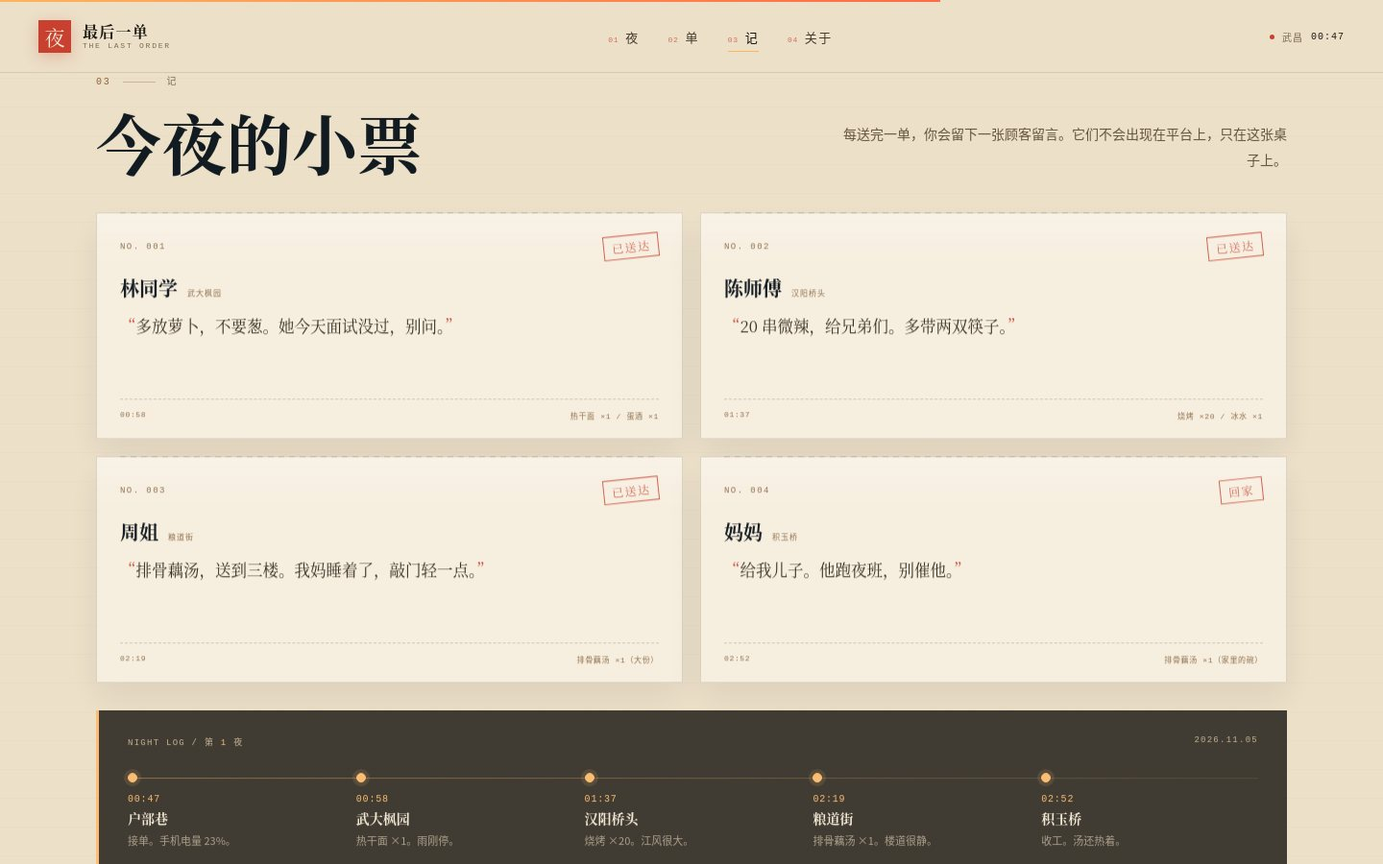
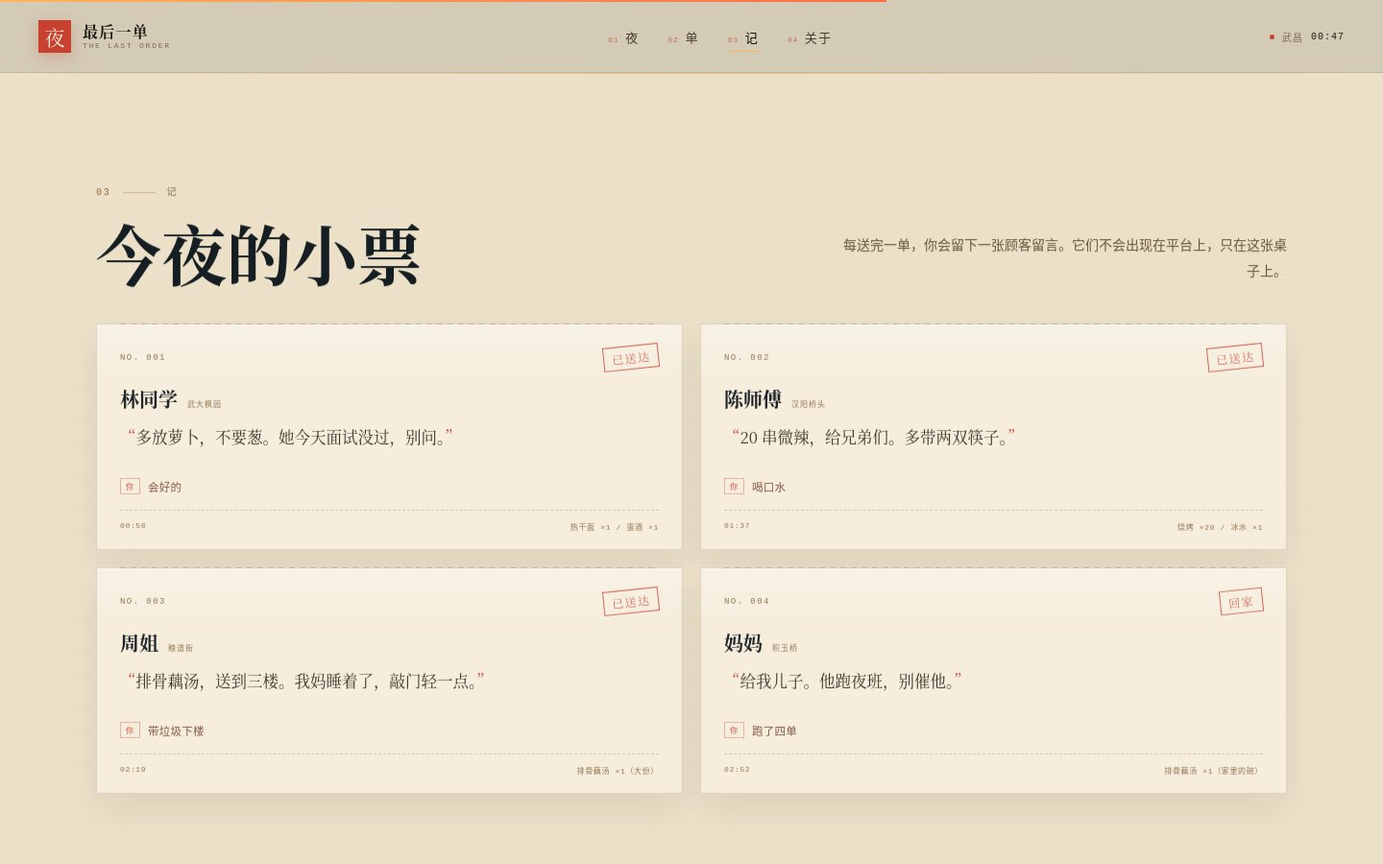
feat: 选择真正留在四张小票上，修纸面锚点顶栏与暗缝

diff --git a/assets/js/app.js b/assets/js/app.js
@@ -73,6 +73,7 @@
     miniStamp: $("#miniTicketStamp"),
     miniItems: $("#miniTicketItems"),
     miniNote: $("#miniTicketNote"),
+    miniChoice: $("#miniTicketChoice"),
     miniPlace: $("#miniTicketPlace"),
     miniTime: $("#miniTicketTime"),
     sceneAfter: $("#sceneAfter"),
@@ -464,6 +465,7 @@
     el.scenePlayer.textContent = scene.playerLine;
     el.sceneOutcome.textContent = "";
     el.sceneAfter.textContent = "";
+    el.miniChoice.textContent = "";
     el.sceneResult.hidden = true;
     el.sceneChoices.hidden = false;
     el.sceneChoices.innerHTML = "";
@@ -506,6 +508,7 @@
     Object.keys(order.scene.ticket).forEach(function (k) { ticket[k] = order.scene.ticket[k]; });
     ticket.customer = order.customer;
     ticket.orderId = order.id;
+    ticket.choice = choice.short || choice.label;
     state.tickets.push(ticket);
 
     el.sceneOutcome.textContent = choice.outcome;
@@ -513,6 +516,7 @@
     el.miniStamp.textContent = ticket.stamp;
     el.miniItems.textContent = ticket.items;
     el.miniNote.textContent = ticket.note;
+    el.miniChoice.textContent = "你 · " + ticket.choice;
     el.miniPlace.textContent = ticket.place;
     el.miniTime.textContent = ticket.time;
     el.sceneAfter.textContent = order.scene.after;
@@ -610,8 +614,9 @@
 
     el.summaryTickets.innerHTML = state.tickets.map(function (t) {
       return '<li><span class="r-no">' + escape(t.no) + '</span>' +
-        '<div class="r-body"><b>' + escape(t.place) + ' · ' + escape(t.time) + '</b>' +
-        escape(t.note) + '<span>' + escape(t.items) + '</span></div></li>';
+        '<div class="r-body"><b>' + escape(t.place) + ' · ' + escape(t.time) +
+        (t.choice ? '<em class="r-choice">你 · ' + escape(t.choice) + '</em>' : '') +
+        '</b>' + escape(t.note) + '<span>' + escape(t.items) + '</span></div></li>';
     }).join("");
   }
 
@@ -708,6 +713,7 @@
         '<div class="ticket-top"><span class="ticket-no">' + escape(ticket.no) + '</span><span class="ticket-stamp">' + escape(ticket.stamp) + '</span></div>' +
         '<div class="ticket-who"><h3>' + escape(ticket.customer) + '</h3><span>' + escape(ticket.place) + '</span></div>' +
         '<p class="ticket-note">' + escape(ticket.note) + '</p>' +
+        (ticket.choice ? '<p class="ticket-choice"><i>你</i>' + escape(ticket.choice) + '</p>' : '') +
         '<div class="ticket-foot"><span>' + escape(ticket.time) + '</span><span>' + escape(ticket.items) + '</span></div>' +
         '</article>';
     }).join("");
@@ -832,6 +838,14 @@
       ctx.fillStyle = "#6a4e30";
       ctx.font = '600 12px "Noto Sans CJK SC", "PingFang SC", sans-serif';
       ctx.fillText(t.place + " · " + t.time, 50, cursor);
+      if (t.choice) {
+        ctx.save();
+        ctx.textAlign = "right";
+        ctx.fillStyle = "#a33a2b";
+        ctx.font = '9px "SFMono-Regular", Consolas, monospace';
+        ctx.fillText("你 · " + t.choice, W - 50, cursor);
+        ctx.restore();
+      }
       ctx.fillStyle = "#2a2118";
       ctx.font = '15px "Noto Serif CJK SC", "Songti SC", serif';
       var lines = wrapText(ctx, "“" + t.note + "”", W - 100);
@@ -929,7 +943,8 @@
     var notes = document.getElementById("notes");
     if (notes) {
       var r = notes.getBoundingClientRect();
-      var paper = r.top <= 70 && r.bottom >= 70;
+      var mark = (el.head.offsetHeight || 80) + 24;
+      var paper = r.top <= mark && r.bottom >= mark;
       el.head.classList.toggle("is-paper", paper);
     }
 

diff --git a/assets/css/main.css b/assets/css/main.css
@@ -39,7 +39,7 @@ html {
   -webkit-font-smoothing: antialiased;
   text-rendering: optimizeLegibility;
   scroll-behavior: smooth;
-  scroll-padding-top: 96px;
+  scroll-padding-top: var(--head-h);
 }
 body {
   margin: 0;
@@ -953,6 +953,25 @@ html.is-locked, html.is-locked body { overflow: hidden; }
 }
 .ticket-note::before { content: "“"; color: var(--red); }
 .ticket-note::after { content: "”"; color: var(--red); }
+.ticket-choice {
+  display: flex;
+  align-items: center;
+  gap: 8px;
+  margin-top: 10px;
+  font-family: var(--sans);
+  font-size: 11.5px;
+  letter-spacing: .02em;
+  color: #7a4a34;
+}
+.ticket-choice i {
+  font-style: normal;
+  padding: 2px 5px;
+  border: 1px solid rgba(200, 64, 47, .38);
+  font-family: var(--mono);
+  font-size: 8px;
+  letter-spacing: .12em;
+  color: var(--red);
+}
 .ticket-foot {
   display: flex;
   justify-content: space-between;
@@ -1248,6 +1267,8 @@ html.is-locked, html.is-locked body { overflow: hidden; }
 }
 .mini-ticket-items { margin-top: 10px; font-family: var(--mono); font-size: 10px; letter-spacing: .06em; color: #4d3b27; }
 .mini-ticket-note { margin-top: 8px; font-family: var(--serif); font-size: 15px; line-height: 1.75; color: #241b12; }
+.mini-ticket-choice { margin-top: 6px; font-family: var(--mono); font-size: 9px; letter-spacing: .06em; color: #a33a2b; }
+.mini-ticket-choice:empty { display: none; }
 .mini-ticket-foot { display: flex; justify-content: space-between; gap: 10px; margin-top: 10px; padding-top: 8px; border-top: 1px dashed rgba(70, 48, 25, .22); font-family: var(--mono); font-size: 8px; letter-spacing: .08em; color: #8a6a45; }
 .scene-after { margin-top: 16px; font-size: 12px; line-height: 1.8; color: var(--muted); }
 #sceneNext { align-self: flex-start; margin-top: 18px; min-height: 44px; }
@@ -1331,6 +1352,14 @@ html.is-locked, html.is-locked body { overflow: hidden; }
 .receipt-list .r-no { font-family: var(--mono); font-size: 8px; letter-spacing: .06em; color: #8a6a45; white-space: nowrap; }
 .receipt-list .r-body { font-family: var(--serif); font-size: 13.5px; line-height: 1.7; color: #2a2118; }
 .receipt-list .r-body b { display: block; font-family: var(--sans); font-size: 11px; font-weight: 600; color: #6a4e30; letter-spacing: .04em; }
+.receipt-list .r-body .r-choice {
+  float: right;
+  font-family: var(--mono);
+  font-size: 8px;
+  font-weight: 400;
+  letter-spacing: .06em;
+  color: #a33a2b;
+}
 .receipt-list .r-body span { display: block; margin-top: 3px; font-family: var(--mono); font-size: 8px; letter-spacing: .06em; color: #8a6a45; }
 .receipt-line {
   margin-top: 24px;

diff --git a/assets/js/data.js b/assets/js/data.js
@@ -44,10 +44,12 @@ window.LASTORDER = {
         choices: [
           {
             label: "说一句：会好的。",
+            short: "会好的",
             outcome: "她愣了一下，点点头。你转身时，听见身后有人小声说：“谢谢啊。”"
           },
           {
             label: "把餐递过去，不打扰。",
+            short: "不打扰",
             outcome: "你跨上车。骑出十几米，听见楼上有人喊：“师傅，路上慢点。”"
           }
         ],
@@ -88,10 +90,12 @@ window.LASTORDER = {
         choices: [
           {
             label: "坐下来，喝口水。",
+            short: "喝口水",
             outcome: "你蹲了五分钟。桥上的车灯一辆接一辆，像一条不会停的河。陈师傅说，他跑完这单也回家了。"
           },
           {
             label: "还有一单，先走。",
+            short: "先走",
             outcome: "他把一瓶水塞进你的车筐：“拿着。夜里口干。”"
           }
         ],
@@ -132,10 +136,12 @@ window.LASTORDER = {
         choices: [
           {
             label: "帮她把门口的垃圾带下楼。",
+            short: "带垃圾下楼",
             outcome: "她追到楼梯口，塞给你一个橘子。“拿着，甜。”"
           },
           {
             label: "说声辛苦，先走。",
+            short: "说声辛苦",
             outcome: "她轻轻带上门。你听见门里有人问：“汤还热着？”她说：“热着。”"
           }
         ],
@@ -178,10 +184,12 @@ window.LASTORDER = {
       choices: [
         {
           label: "说：妈，我今天跑了四单。",
+            short: "跑了四单",
           outcome: "她笑了：“晓得。最后一单，是我下的。”"
         },
         {
           label: "什么也不说，把汤端上桌。",
+            short: "把汤端上桌",
           outcome: "她没问，只把筷子递给你。你看见她手背上新添的一道烫痕。"
         }
       ],

diff --git a/index.html b/index.html
@@ -635,6 +635,7 @@
             <div class="mini-ticket-top"><span id="miniTicketNo">NO. 001</span><span id="miniTicketStamp">已送达</span></div>
             <p class="mini-ticket-items" id="miniTicketItems"></p>
             <p class="mini-ticket-note" id="miniTicketNote"></p>
+            <p class="mini-ticket-choice" id="miniTicketChoice"></p>
             <div class="mini-ticket-foot"><span id="miniTicketPlace">武大枫园</span><span id="miniTicketTime">00:58</span></div>
           </div>
           <p class="scene-after" id="sceneAfter"></p>

diff --git a/docs/design.md b/docs/design.md
@@ -63,9 +63,9 @@
 
 1. **接单**：订单卡显示取餐点、送达点、距离、预计时间、配送费与顾客留言。点「接单 · 出发」进入骑行。
 2. **骑行**：地图自动缩放到当前路线（取餐点 + 送达点的包围盒）；路线按实际路径长度绘制，电动车用 `getPointAtLength` 沿路径移动；经过取餐点停一下、弹「取餐完成」，再继续到门口。可以点「跳过骑行」。
-3. **门口**：场景浮层给出地点、时间、天气、叙述、顾客的一句话和两个选择。选择不改变订单结果，只改变收尾的一句话；收下这一单的顾客留言小票。
+3. **门口**：场景浮层给出地点、时间、天气、叙述、顾客的一句话和两个选择。选择不改变订单结果，只改变收尾的一句话，并把选中的动作压缩成「你 · 会好的」这样一行写进小票；收下这一单的顾客留言小票。
 4. **回家加单**：三单送完后，订单面板出现「粮道街 → 积玉桥」的加单，顾客是妈妈。送完打开收工小票。
-5. **收工**：纸票统计 4 单 / 19.5 公里 / 36.5 元，列出四张留言；「存下这张小票」用 Canvas 2D 重绘 760×1240 PNG；「再跑一夜」回到第一单。
+5. **收工**：纸票统计 4 单 / 19.5 公里 / 36.5 元，列出四张留言与四次选择；「存下这张小票」用 Canvas 2D 重绘 760×1240 PNG；「再跑一夜」回到第一单。
 
 ### 地图
 
@@ -76,14 +76,14 @@
 
 ### 场景与选择
 
-- 每段场景有一个 `visual` 模板（内联 SVG）和一段 `scene` 数据；打开时替换场景内容，焦点进入第一个选择，`aria-modal` + 焦点陷阱；选择后显示结果、小票和收尾，再「继续送单 / 收工」。
-- 顾客留言是每单的收集物；四张小票同时出现在「今夜的小票」区，未送达的格显示「未送达」。完成一夜后，四张全部显影。
+- 每段场景有一个 `visual` 模板（内联 SVG）和一段 `scene` 数据；打开时替换场景内容，焦点进入第一个选择，`aria-modal` + 焦点陷阱；选择后显示结果、小票和收尾，再「继续送单 / 收工」。每个选择另有一个 `short` 短标签，写进小票的「你 · …」一行；长标签会破坏小票的节奏，所以短标签是数据的一部分，不由前端截断。
+- 顾客留言是每单的收集物；四张小票同时出现在「今夜的小票」区，未送达的格显示「未送达」。完成一夜后，四张全部显影，每张在留言下方多出一枚朱红「你」签与当时的选择，填满原本空着的下半张纸。
 - 夜班日志把 00:47 / 00:58 / 01:37 / 02:19 / 02:52 五个时间点串起来；完成一夜后全部点亮。
 
 ### 收工小票
 
-- HTML 纸票是页面内的视觉；「存下这张小票」用 Canvas 2D 重绘一张 760×1240、2x 的 PNG（纸纹、统计、四段留言、印章、夜数），不依赖第三方库。中文按字符测量换行，避免长留言溢出。
-- `localStorage` 键：`lastorder.v1`；写入 `{ nights, last: { date, tickets, choices, stats } }`。读取时校验数组与字段，旧数据或损坏数据自动降级；`file://` 下写入失败也不影响当前这一夜。
+- HTML 纸票是页面内的视觉；每段留言的右上角以小字记下「你 · …」，让收工小票同时是顾客的话与骑手自己的话；「存下这张小票」用 Canvas 2D 重绘一张 760×1240、2x 的 PNG（纸纹、统计、四段留言、四次选择、印章、夜数），不依赖第三方库。中文按字符测量换行，避免长留言溢出。
+- `localStorage` 键：`lastorder.v1`；写入 `{ nights, last: { date, tickets, choices, stats } }`，每张 ticket 带 `choice` 短标签。读取时校验数组与字段，旧数据没有 `choice` 时只是少一行，不报错；`file://` 下写入失败也不影响当前这一夜。
 - 「再跑一夜」保留已完成的夜数与上一夜小票，当前这一夜重新开始；刷新后，上一夜仍在「今夜的小票」里。
 
 ![收工小票，1440×900 实机](screenshots/summary-1440.jpg)
@@ -108,7 +108,7 @@
 - **地图**：SVG `getBBox()` / `getPointAtLength()` / `requestAnimationFrame`；没有地图库、没有 Canvas 地图。
 - **存档**：`localStorage`；读取时校验，写入失败静默降级。
 - **导出**：Canvas 2D 手绘小票，`toBlob` 下载；无第三方库。
-- **性能**：首屏无图片、无外部字体、无第三方脚本；全部图形内联 SVG；站点 4 个文本文件约 160KB，gzip 约 40KB；动效不阻塞首屏；`defer` 加载脚本。
+- **性能**：首屏无图片、无外部字体、无第三方脚本；全部图形内联 SVG；站点 4 个文本文件约 158KB，gzip 约 39KB；动效不阻塞首屏；`defer` 加载脚本。
 - **兼容**：Chrome 129；使用 `clamp`、`svh`、`text-wrap: balance`、`backdrop-filter`、`getPointAtLength` 等稳定特性；无 ES module，`file://` 可打开。
 
 ## 8. 适配策略
@@ -143,12 +143,12 @@
 
 | 维度 | 自评 | 依据 |
 |---|---|---|
-| 设计 45 | 43 | 风格 9.5 / 布局 9 / 细节 9.5 / 素材 9 / 导航 5；夜街、地图、纸票三层对照；四段场景各有可读的细部 |
+| 设计 45 | 44 | 风格 9.5 / 布局 9.5 / 细节 10 / 素材 10 / 导航 5；夜街、地图、纸票三层对照；选择落纸后「你」也成为纸面的一部分 |
 | 功能 20 | 19 | 四单循环、地图运镜、骑行、8 个选择、四张留言、收工小票、PNG、存档、再跑一夜 |
 | 技术 30 | 28 | 零依赖、SVG 地图、路径动画、Canvas 导出、localStorage、CDP 自动回归、响应式 |
 | 创意 10 | 9 | 「最后一单是回家」把外卖叙事收回到自己身上；地图 + 纸票的双重叙事 |
 | 文档 5 | 5 | README、设计文档、状态、回归脚本与截图同步 |
-| 标准分合计 110 | 104 | 设计与内容优先，技术不替代设计 |
+| 标准分合计 110 | 105 | 设计与内容优先，技术不替代设计 |
 | 加分 | +5~10 | 移动端适配 + 本地数据持久化已完成；无后端 |
 
 ## 12. 验证与遗留

diff --git a/STATE.md b/STATE.md
@@ -32,9 +32,9 @@
 1. **首屏**：夜街 SVG + 「最后一单」大字；00:47，手机 23% 电，三单待送；入口「接单，出发」。
 2. **送单（核心互动）**：夜间示意地图 + 骑手面板。四单：户部巷 → 武大枫园（热干面）、粮道街 → 汉阳桥头（烧烤）、归元寺 → 粮道街（藕汤）、粮道街 → 积玉桥（回家）。
 3. **骑行**：地图缩放到当前路线，路线按长度绘制，电动车沿路径移动；经过取餐点停一下；可跳过。
-4. **门口**：四段场景，每段两个选择；选择改变收尾的一句话，不改变订单结果；每单留下顾客留言小票。
-5. **收工**：4 单 / 19.5 公里 / 36.5 元，四张留言，一张纸票；可存 PNG、再跑一夜。
-6. **记住**：`localStorage`（`lastorder.v1`）保存夜数、四张留言、选择；刷新后小票仍在。
+4. **门口**：四段场景，每段两个选择；选择改变收尾的一句话，并以「你 · 会好的」这样一行留在小票上，不改变订单结果；每单留下顾客留言小票。
+5. **收工**：4 单 / 19.5 公里 / 36.5 元，四张留言与四次选择，一张纸票；可存 PNG、再跑一夜。
+6. **记住**：`localStorage`（`lastorder.v1`）保存夜数、四张留言、每单的选择短标签；刷新后小票与「你」的那一行仍在。
 
 ## 三、信息架构
 
@@ -61,6 +61,8 @@
 - [x] 1440×720 矮横屏首屏收口：标题 127px，信息行与路线条留在第一屏；新增回归断言（第 23 轮）
 - [x] 390 场景 34svh 取景实拍复核：门缝、汤勺、第二副碗筷均入镜（第 23 轮）
 - [x] 地图右下补指北针与带中刻度的比例尺，回归锁定两者不越出画框（第 24 轮）
+- [x] 选择真正留在小票上：场景小票、四张存档小票、收工纸票与 Canvas PNG 都带「你 · …」；刷新后仍在（第 25 轮）
+- [x] 锚点落到纸面时顶栏切纸色、暗缝收掉：`scroll-padding-top` 与 `is-paper` 阈值按实际头高计算（第 25 轮）
 - [ ] 真实手机 / 真实 Chrome 129 走查
 - [x] `scripts/pack.sh` 实跑：完整版含 progress，匿名版无占位符/个人信息，两个 zip 可直接打开
 - [ ] 可选：分享文案 / URL 还原 / 环境声（默认关闭）
@@ -69,12 +71,12 @@
 
 | 维度 | 当前 | 目标 | 说明 |
 |---|---|---|---|
-| 设计 45 | 43 | 43 | 夜街、地图、纸票三层对照；四段场景各有可读的细部 |
+| 设计 45 | 44 | 44 | 夜街、地图、纸票三层对照；选择写进小票后，「你」也成了纸面的一部分 |
 | 功能 20 | 19 | 19 | 四单循环、8 个选择、四张留言、PNG、存档、重跑 |
 | 技术 30 | 28 | 28 | 零依赖、SVG 地图、路径动画、Canvas、localStorage、CDP 回归 |
 | 创意 10 | 9 | 9 | 「最后一单是回家」把外卖叙事收回到自己身上 |
 | 文档 5 | 5 | 5 | README / 设计文档 / 截图 / 回归同步 |
-| 标准分合计 110 | 104 | 104 | 设计与内容优先 |
+| 标准分合计 110 | 105 | 105 | 设计与内容优先 |
 | 加分 | +5~10 | +5~10 | 移动端适配 + 本地持久化；无后端 |
 
 ## 六、决策记录
@@ -99,10 +101,12 @@
 | 11-05 | 首屏增加「高度」断点（981px 以上、800px 以下） | 1440×720 是常见笔记本视口，只按宽度适配会让信息行与路线条掉出第一屏；压缩标题与段距比隐藏内容更完整 |
 | 11-05 | 矮横屏标题压到 127px 而非继续 152px | 仍需保留首屏冲击；127px 下标题、入口、信息行、路线条四层都能在第一屏读完 |
 | 11-05 | 地图补指北针与比例尺中刻度 | 地图是核心舞台，右下角原本只有一条比例尺；补「N」针与中点刻度后更像一张可读的示意图，且纯 CSS/SVG，不碰骑行状态 |
+| 11-05 | 选择以 `short` 短标签写进四张小票 | 场景脚注承诺「选择会留在小票上」，但此前只存进 `choices`、纸面看不到；完整标签太长会破坏票据节奏，短标签随数据一起维护 |
+| 11-05 | 锚点纸色阈值改为「头高 + 24」，`scroll-padding-top` 改为头高 | 原 70px 阈值与 96px 滚动留白让「记」锚点落在纸面时顶栏仍是深色，且留下 20px 暗缝；按实际头高对齐后纸面从顶栏下开始 |
 
 ## 七、当前阶段 & 下一步
 
-**可上线状态**：目录即站点，`index.html` 直接打开可玩，push 即部署。第 19 轮完成完全重构，第 20 轮完成打包实跑与收工小票背景光，第 21 轮补齐第一段场景的两人共伞，第 22 轮补齐后三段场景细部并把四段场景截图纳入回归，第 23 轮补 1440×720 矮横屏首屏断点并实拍复核 390 场景，第 24 轮给地图补指北针与比例尺中刻度并把两者纳入回归。`node scripts/regression.mjs` 在 1920 / 1440 / 720 / 390 全部通过，1440 与 390 各跑完整一夜，1440×720 另跑首屏断言。
+**可上线状态**：目录即站点，`index.html` 直接打开可玩，push 即部署。第 19 轮完成完全重构，第 20 轮完成打包实跑与收工小票背景光，第 21 轮补齐第一段场景的两人共伞，第 22 轮补齐后三段场景细部并把四段场景截图纳入回归，第 23 轮补 1440×720 矮横屏首屏断点并实拍复核 390 场景，第 24 轮给地图补指北针与比例尺中刻度并把两者纳入回归，第 25 轮把每单的选择写进场景小票、存档小票、收工纸票与 PNG，并修掉纸面锚点的顶栏配色与暗缝。`node scripts/regression.mjs` 在 1920 / 1440 / 720 / 390 全部通过，1440 与 390 各跑完整一夜，1440×720 另跑首屏断言。
 
 **下一步**：① 真实 Chrome 129 + 真实手机走查并记录；② 801–860px 高度过渡带已抽查 1440×820 / 860，首屏四层完整，无需改断点，留作实机复核；③ 可选：小票补一句「最后一单，是回家」的收束（需同步 Canvas 导出）；④ 可选：分享文案 / URL 还原 / 环境声默认关闭。
 

diff --git a/README.md b/README.md
@@ -75,9 +75,9 @@
 
 - **接单**：每单显示取餐点、送达点、距离、配送费与顾客留言；点「接单 · 出发」后，地图自动缩放到这一单的路线。
 - **骑行**：路线按长度绘制，电动车沿路径移动；经过取餐点会停一下、弹出「取餐完成」，再继续送到门口。可以点「跳过骑行」。
-- **门口**：四段场景，每段两个选择。选择改变收尾的一句话，但不改变订单结果；每单留下一张顾客留言小票。四段插画各有可读的细部：雨里共伞的两个人、桥下烧烤袋的热气、只开一条缝的门与门口的垃圾袋、妈妈手里的汤勺和早摆好的第二副碗筷。
-- **收工**：四单之后自动生成一张「今夜收工」纸票，统计 4 单 / 19.5 公里 / 36.5 元，列出四张留言；可以「存下这张小票」为 PNG。
-- **记住**：完成的一夜写入 `localStorage`（键：`lastorder.v1`），记录夜数、四张留言与选择；刷新后「今夜的小票」仍在。
+- **门口**：四段场景，每段两个选择。选择改变收尾的一句话，并把「你 · 会好的」这样一行留在小票上；不改变订单结果。每单留下一张顾客留言小票。四段插画各有可读的细部：雨里共伞的两个人、桥下烧烤袋的热气、只开一条缝的门与门口的垃圾袋、妈妈手里的汤勺和早摆好的第二副碗筷。
+- **收工**：四单之后自动生成一张「今夜收工」纸票，统计 4 单 / 19.5 公里 / 36.5 元，列出四张留言与四次选择；可以「存下这张小票」为 PNG（选择也一起画进去）。
+- **记住**：完成的一夜写入 `localStorage`（键：`lastorder.v1`），记录夜数、四张留言与每单的选择；刷新后「今夜的小票」仍带着你当时留下的那一行。
 - **再跑一夜**：回到第一单；小票重新盖上「未送达」，上一夜仍留在浏览器里。
 
 ### 内容
@@ -104,18 +104,18 @@ python3 -m http.server 8080 &
 node scripts/regression.mjs
 ```
 
-脚本会检查 1920 / 1440 / 720 / 390 四档的横向溢出，在 1440 与 390 各跑完一整夜（接单 → 跳过骑行 → 场景 → 二选一 → 小票 → 回家加单 → 收工小票 → 再跑一夜），断言地图面板、场景层、小票、localStorage 与控制台；另跑 1440×720 矮横屏首屏断言。截图输出到 `/tmp/lastorder-shots`。若 Chrome 不在常见路径，用 `CHROME=/path/to/chrome node scripts/regression.mjs` 指定；只跑移动端可加 `ONLY=mobile`，只跑桌面完整一夜可加 `ONLY=desktop`。
+脚本会检查 1920 / 1440 / 720 / 390 四档的横向溢出，在 1440 与 390 各跑完一整夜（接单 → 跳过骑行 → 场景 → 二选一 → 小票 → 回家加单 → 收工小票 → 再跑一夜），断言地图面板、场景层、小票上的选择、localStorage 与控制台；另跑 1440×720 矮横屏首屏断言，并复核锚点落到纸面时顶栏切换纸色。截图输出到 `/tmp/lastorder-shots`。若 Chrome 不在常见路径，用 `CHROME=/path/to/chrome node scripts/regression.mjs` 指定；只跑移动端可加 `ONLY=mobile`，只跑桌面完整一夜可加 `ONLY=desktop`。
 
 ### 体积预算
 
-站点只有 4 个文本文件，合计约 160KB（gzip 后约 40KB），首屏 0 张图片、0 个外部字体、0 个第三方脚本：
+站点只有 4 个文本文件，合计约 158KB（gzip 后约 39KB），首屏 0 张图片、0 个外部字体、0 个第三方脚本：
 
 | 资源 | 原始 | gzip |
 |---|---|---|
-| `index.html` | 66.3KB | 16.6KB |
-| `assets/css/main.css` | 48.5KB | 10.6KB |
-| `assets/js/app.js` | 36.8KB | 9.9KB |
-| `assets/js/data.js` | 8.1KB | 3.1KB |
+| `index.html` | 66.4KB | 16.5KB |
+| `assets/css/main.css` | 49.2KB | 10.6KB |
+| `assets/js/app.js` | 37.5KB | 10.1KB |
+| `assets/js/data.js` | 8.4KB | 3.2KB |
 
 `docs/screenshots/` 只用于文档展示，不参与页面加载。慢网/离线时打开也只请求这 4 个文件。
 
@@ -123,7 +123,7 @@ node scripts/regression.mjs
 
 1. 从首屏「接单，出发」进入送单区。
 2. 看完订单信息后点「接单 · 出发」；地图会缩放到当前路线，电动车开始移动。点「跳过骑行」可以直接到门口。
-3. 到门口后读对话，二选一；选择会改变收尾的一句话。每单留下一张小票。
+3. 到门口后读对话，二选一；选择会改变收尾的一句话，并作为「你」的一行留在小票上。每单留下一张小票。
 4. 三单送完，会出现一张「回家」的加单；送完第四单，自动打开「今夜收工」小票。
 5. 「存下这张小票」导出 PNG；「再跑一夜」重新开始；刷新页面后，完成的夜会留在「今夜的小票」里。
 

diff --git a/BACKLOG.md b/BACKLOG.md
@@ -28,6 +28,8 @@
 - [x] 首屏在 1440×720 高度下的折行与夜街比例（第 23 轮，标题 127px）
 - [x] 801–860px 高度过渡带抽查：1440×820 / 860 首屏四层完整，暂不改断点
 - [x] 地图指北针 + 比例尺中刻度（第 24 轮）
+- [x] 场景小票 / 四张存档小票 / 收工纸票 / PNG 都带「你 · 选择」短标签（第 25 轮）
+- [x] 纸面锚点顶栏切纸色，收掉 20px 暗缝（第 25 轮）
 
 ## P2 · 功能 20
 
@@ -35,6 +37,7 @@
 - [x] 取餐点停顿、已取餐 / 已送达提示、跳过骑行
 - [x] 三单后「回家」加单 + 收工小票
 - [x] 8 个选择，各有一句收尾；不改变订单结果
+- [x] 选择以短标签写进每张小票，并随 localStorage 存档（第 25 轮）
 - [x] 四张留言小票 + 夜班日志五点
 - [x] 存 PNG、localStorage、再跑一夜
 - [x] 390 地图面板、接单按钮、场景层、收工小票均不越界
@@ -52,6 +55,7 @@
 - [x] 四段场景截图（1440 / 390）纳入回归，等淡入结束再拍（第 22 轮）
 - [x] 1440×720 矮横屏首屏断言：标题量级、入口、信息行、路线条（第 23 轮）
 - [x] 指北针 / 比例尺画框内断言（第 24 轮）
+- [x] 选择落纸 + 刷新保留 + 纸色顶栏断言（第 25 轮）
 - [ ] 真实 Chrome 129 / 真实手机走查
 - [ ] Safari / Firefox 非目标兼容性记录
 
@@ -61,6 +65,7 @@
 - [x] README 三张 1440 实机截图（首屏 / 地图 / 小票）
 - [x] docs/design.md 重写：重做理由、视觉、IA、交互、技术、适配、自评
 - [x] 四段场景细部说明与体积数字同步（第 22 轮）
+- [x] 选择落纸说明、体积与截图同步（第 25 轮）
 - [x] STATE / BACKLOG / progress 同步
 - [x] scripts/regression.mjs 重写为新流程
 - [x] `scripts/pack.sh` 空目录实跑一次：两包内容与匿名化已核对

diff --git a/progress/2026-11-05.md b/progress/2026-11-05.md
@@ -138,3 +138,12 @@
 - 验证：实拍 1440×820 / 860，首屏标题、入口、信息行、路线条四层完整，断点无需改动；`regression.mjs` 新增指北针与比例尺不越出 `.map-frame` 的断言，四尺寸、完整一夜、390 全流程、控制台全部通过。
 - 文档：README / design.md 体积更新为约 160KB、gzip 约 40KB；STATE / BACKLOG 同步。
 - 遗留：真实 Chrome 129 与真机走查；小票收束句若加需同步 Canvas PNG。
+
+# 2026-11-05 · 第 25 轮 · 选择真正留在小票上
+
+- 目标：场景脚注一直写着「选择会留在小票上」，但此前选择只存进 `choices`，纸面上只有顾客留言，看不见「你」做了什么。
+- 设计：给 8 个选择各配一个 3–6 字短标签；场景结果小票、四张存档小票、收工纸票、Canvas PNG 都多出「你 · 会好的」一行。存档小票用朱红「你」签接住空着的下半张纸，收工纸票把小字放在地名行右侧，不增加高度。
+- 修复：`scroll-padding-top` 从 96px 收到实际头高，`is-paper` 阈值改为「头高 + 24」；点「记」落到纸面时顶栏终于切纸色，20px 的夜色暗缝也收掉了。
+- 验证：`ONLY=desktop` 与全量回归先后通过；新增选择落纸、localStorage `ticket.choice`、刷新保留、纸色顶栏四组断言；重拍 notes / summary 两张 1440 截图。
+- 文档：README / design.md 同步选择落纸、玩法与体积（158KB / gzip 39KB）；STATE / BACKLOG 勾掉本项。
+- 遗留：真实 Chrome 129 / 手机走查；收工纸票的「最后一单，是回家」收束句仍未加（需同步 Canvas 与 PNG 版式）。
